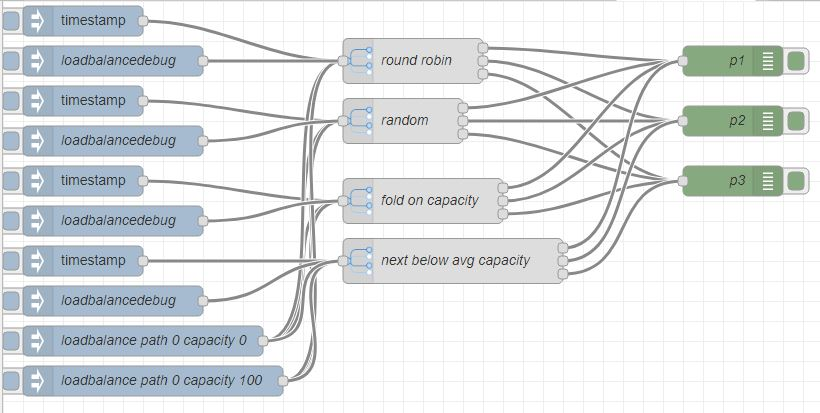
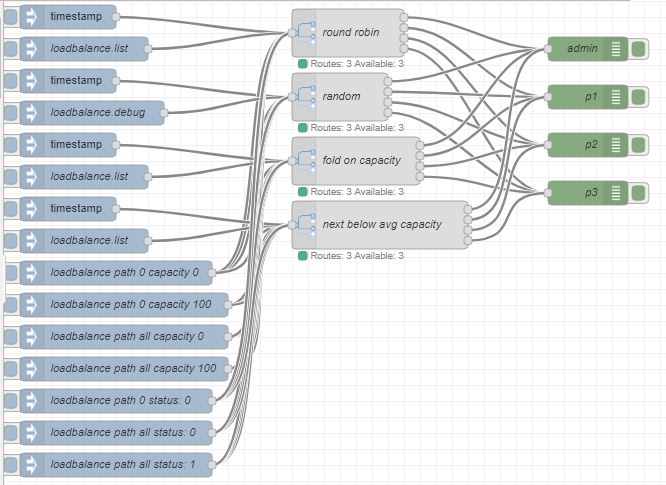
Add capacity based spreading. Add bypass path if unavailable. Introduce first port for admin responses and rejected messages

diff --git a/loadbalance/loadbalance.js b/loadbalance/loadbalance.js
@@ -1,44 +1,79 @@
+function updatePath(data) {
+	try {
+		if(Array.isArray(data)) {
+			for(var a of data) {
+				updatePath.apply(this,[a]);
+			}
+		} else {
+			if(data.hasOwnProperty('status') && data.status!=this.paths[data.path].status) {
+				if(data.status) {  
+					this.warn("Available path "+data.path);
+				} else {
+					this.error("Unavailable path "+data.path);
+				}
+			}
+			Object.assign(this.paths[data.path],data);
+		} 
+	} catch(e) {
+		this.error("loadbalance update failed: "+e +" data:"+data);
+	}	
+}
+function setAvailable(node) {
+	var available=[];
+	for(var i=0;i<node.routes;i++) {
+		if(node.paths[i].status) {
+			available.push(i);
+		}
+	}
+	node.available=available;
+	node.status({ fill: (node.available.length?(node.available.length==node.routes?'green':'yellow'):'red'), shape: 'dot', text: "Routes: "+node.routes + " Available: "+node.available.length});
+}
 
 var setPaths={
 	random:	function() {
-			this.path=Math.floor(Math.random()*this.outputs);
+			this.path=Math.floor(Math.random()*this.available.length);
+			return this.path;
 	},
 	next: function() {
 		if(--this.path<0) {
-			this.path=this.outputs-1;
-		}   
+			this.path=this.available.length-1;
+		}
+		return this.path;
 	},
 	foldweighted: function() {
-		for(this.path=0;this.path<this.outputs;this.path++) {
-			if(this.paths[this.path].capacity>0) return;
+		for(this.path=0;this.path<this.available.length;this.path++) {
+			if(this.paths[this.available[this.path]].capacity>0) return this.path;
 		}
-		this.random();
+		return setPaths.random.apply(this);
 	},
 	nextsmoothed:function() {
-		for(var i=0;i<this.outputs;i++) {
+		for(var i=0;i<this.available.length;i++) {
         	if(--this.path<0) {
-        		this.path=this.outputs-1;
+        		this.path=this.available.length-1;
        		}
-			if(this.paths[this.path].capacity>=this.pathCapacityAvg) return;
+			if(this.paths[this.available[this.path]].capacity>=this.pathCapacityAvg) {
+				return this.path;
+			}
 		}
+		return setPaths.random.apply(this);
 	},
 	dropmessage:function() {
-		this.path=this.outputs;  // by placing on none existence wire
+		return -1; // by placing on none existence wire
 	}
 }
 
-
 module.exports = function(RED) {
     function loadBalanceNode(n) {
+    	clonen=Object.assign({},n);
         RED.nodes.createNode(this,n);
-        var node=Object.assign(this,{path:0},n);
-        node.paths=[];
-        for(var i=0;i<node.outputs;i++) {
-        	node.paths.push({status:0,capacity:100,count:0,history:Array(3).fill({count:0,capacity:0})})
+      
+        var node=Object.assign(this,{path:0,paths:[],available:[],pathCapacityAvg:100,discards:0},n);
+        for(var i=0;i<node.routes;i++) {
+        	node.paths.push({status:1,capacity:100,count:0,history:Array(3).fill({count:0,capacity:100,status:1})})
         }
-        node.pathCapacityAvg=100;
+        setAvailable(node);
 		var setPath = function() {
-			node.path=Math.floor(Math.random()*node.outputs);
+			node.path=Math.floor(Math.random()*node.routes);
 		};
 		try{
 			var setPath=setPaths[node.selection];
@@ -48,35 +83,41 @@ module.exports = function(RED) {
         node.on('input', function (msg) {
             switch (msg.topic) {
         		case 'loadbalance':
-        			try {
-        				if(Array.isArray(msg.payload)) {
-        					for(var a in msg.payload) {
-        						node.paths[a.path].capacity=a.capacity;
-        					}
-        				} else {
-        					node.paths[msg.payload.path].capacity=msg.payload.capacity;
-        				}
-        			} catch(e) {
-        				node.error("loadbalance update failed");
+        			updatePath.apply(node,[msg.payload]);
+        			for(var t=0,i=0;i<node.routes;i++) {
+        				if(node.status) {
+        					t+=node.paths[i].capacity
+        				} 
         			}
-        			for(var t=0,i=0;i<node.outputs;i++) {
-        				t+=node.paths[i].capacity
-        			}
-        			node.pathCapacityAvg=t/node.outputs;
+        			node.pathCapacityAvg=t?t/node.available.length:0;
+        			setAvailable(node);
         			node.send();
         			return;
-        		case 'loadbalancedebug':
-    				node.error("selection mode: "+node.selection+"path pointer: "+node.path+" average capacity: "+node.pathCapacityAvg +" "+JSON.stringify(node.paths));
+        		case 'loadbalance.list':
+        			msg.payload={discards:node.discards,capacityAverage:node.pathCapacityAvg,available:node.available,paths:node.paths};
+    				node.send(msg);
+        			return;
+        		case 'loadbalance.debug':
+    				node.error("selection mode: "+node.selection+"path pointer: "+node.path+" average capacity: "+node.pathCapacityAvg +" available: "+JSON.stringify(node.available) +" paths: "+JSON.stringify(node.paths));
     				node.send();
         			return;
             }
-        	setPath.apply(this);
-        	node.paths[node.path].count++;
-        	var o=Array(node.outputs).fill(null).fill(msg,node.path,node.path+1);
+        	try{
+               	var port=node.available[setPath.apply(this)];  //  offset for admin port		
+            	node.paths[port].count++;
+            	port++;
+        	} catch(e) {
+        		if(node.available.length>0) {
+            		node.error("port: "+port+" error: "+e);
+        		}
+        		node.discards++;
+        		var port=0;
+        	}
+        	var o=Array(node.outputs).fill(null).fill(msg,port,port+1);
 			node.send(o);
         });
         function checkLoop() { 
-        	for(var n,i=0;i<node.outputs;i++) {
+        	for(var n,i=0;i<node.routes;i++) {
         		n=node.paths[node.path];
         		n.history.unshift({status:n.status,count:n.count,capacity:n.capacity});
         		n.history.pop();

diff --git a/loadbalance/loadbalance.html b/loadbalance/loadbalance.html
@@ -1,23 +1,24 @@
 <script type="text/x-red" data-help-name="Load Balance">
-    <p>Load balance on outputs </p>
+    <p>Load balance on outputs.  First port is admin port only.  Remaining ports are load balanced according to the selected method:</p>
     <p>
 	<dl>
 	<dt>Round Robin</dt><dd>Next output path and when reaches last next is first in list</dd>
 	<dt>Random</dt><dd>Randomly picks next output path</dd>
 	<dt>Fold on capacity</dt><dd>Uses path with capacity first in list. If all at capacity then randomly.</dd>
-	<dt>Next below average capacity</dt><dd>Uses next path that is below average capacity. If all at same capacity then randomly.  </dd>
+	<dt>Next below average capacity</dt><dd>Uses next path that is below average capacity. If all at same capacity then randomly.</dd>
 	</dl>
 	</p>
 	<p>
 	msg.topic can be used to send directives to load balancer.  
 	<dl>
 	<dt>loadbalance</dt>
-		<dd>Set a weigthing on a path form {path:0,capactity:100} or an array of these values.  
-		All paths area initially set to 100.  Zero is considered no capacity. 
+		<dd>Set a weigthing on a path form {path:0,capactity:100,status:1} or an array of these values.  
+		All paths area initially set to {capactity:100,status:1} .  Zero is considered no capacity and for status unavailable  
 		Mechanism by which receiving route can send feed back on load.
 		</dd>
 	</dl>
-	<dt>loadbalancedebug</dt>Send medata data about routing to log<dd></dd>
+	<dt>loadbalance.debug</dt>Send medata data about routing to log<dd></dd>
+	<dt>loadbalance.list</dt>Send medata data message about routing to admin port<dd></dd>
 	</p>
 
 </script>
@@ -38,8 +39,8 @@
         </select>
     </div>
     <div class="form-row">
-        <label for="node-input-outputs"><i class="icon-bookmark"></i> Paths</label>
-        <input type="number" id="node-input-outputs"placeholder="Outputs" min=1 max=100>
+        <label for="node-input-routes"><i class="icon-bookmark"></i> Paths</label>
+        <input type="number" id="node-input-routes" placeholder="Outputs" min=0 max=100>
     </div>
 
 </script>
@@ -49,13 +50,14 @@
     	category: 'function',
         defaults: {
             name: {value:"",required:false},
+            routes: {value:1,required:true},
             outputs: {value:1,required:true},
             selection: {value:"next",required:true}
         },
 	    inputs:1,
         inputLabels: "",
         outputs:1,
-        outputLabels: [],
+        outputLabels: ["admin"],
         icon: "icons8-multicast-80.png",
         label: function() {
             return this.name||this._("Load Balance");
@@ -64,6 +66,11 @@
             return "node_label_italic";
         },
         oneditprepare: function() {
+        	var node=this;
+        	this.outputs=1+this.routes;
+        	$('#node-input-routes').change(function () {
+        		node.outputs=1+Number($('#node-input-routes').val());
+        	});
         },
         oneditsave: function() {
         },

diff --git a/README.md b/README.md
@@ -6,11 +6,12 @@
 Basically spreads input messages to flows based on:
 * Round Robin - next in list then start at being again
 * Random - randomly across out paths
-* Fold on capacity - place load on first node in order with capacity.  Good for improving cache hit ratios 
-* Next smoothing to average capacity - next that is >= average capacity to get smoothing of load
-
+* Fold on capacity - place load on first node in order with capacity.  Good for improving cache hit ratios. At full capacity random selection.
+* Next smoothing to average capacity - next that is >= average capacity to get smoothing of load. At full capacity random selection.
 
 This allows incoming messages to be passed to servers that may be other node red instances.
+
+Out port zero is used for administration and used to send message if there is no availability in all routes.  This allows responses messages or queuing to be managed.
 
 ![Load Balance](documentation/loadbalance.JPG "Load Balance")
 
@@ -18,11 +19,11 @@ This allows incoming messages to be passed to servers that may be other node red
 
 Messages can be sent to node with the following topics and not forwarded 
 
-## msg.topic loanbalance
+## msg.topic loadbalance
 
-Takes in metrics for a path in msg.payload in form:
+Takes in metrics and availablity for a path in msg.payload in form:
 
-	{path: <path number>, capacity: <numeric value>} 
+	{path: <path number>, capacity: <numeric value>, status: <0=unavailable>} 
 
 or and array of above.
 
@@ -30,18 +31,23 @@ Capacity of zero is considered saturation.  Positive values are expected.
 
 Basically a remote node could be constructed to send a message to update 
 
-## msg.topic loanbalancedebug
+## msg.topic loadbalance.list
+
+Will send metadata about queues to admin output port.
+
+## msg.topic loanbalance.debug
 
 Will send metadata about queues to error log so visible in debug console.
 
 
 ## To be done
 
-1. Stop and start a path
-* Choice between message discard, queue, random or next when saturation reached 
+1. Choice between message discard, queue, random or next when saturation reached
+* Persist path states and capacity on recycle 
 * Am alive polling, keep alive can be used to trigger remote to send capacity metrics
 * Dynamic addition of paths by remote nodes subscribing or discovery
 * Some base capacity calls to remote engines 
+* sticky path
 
 
 # Install
